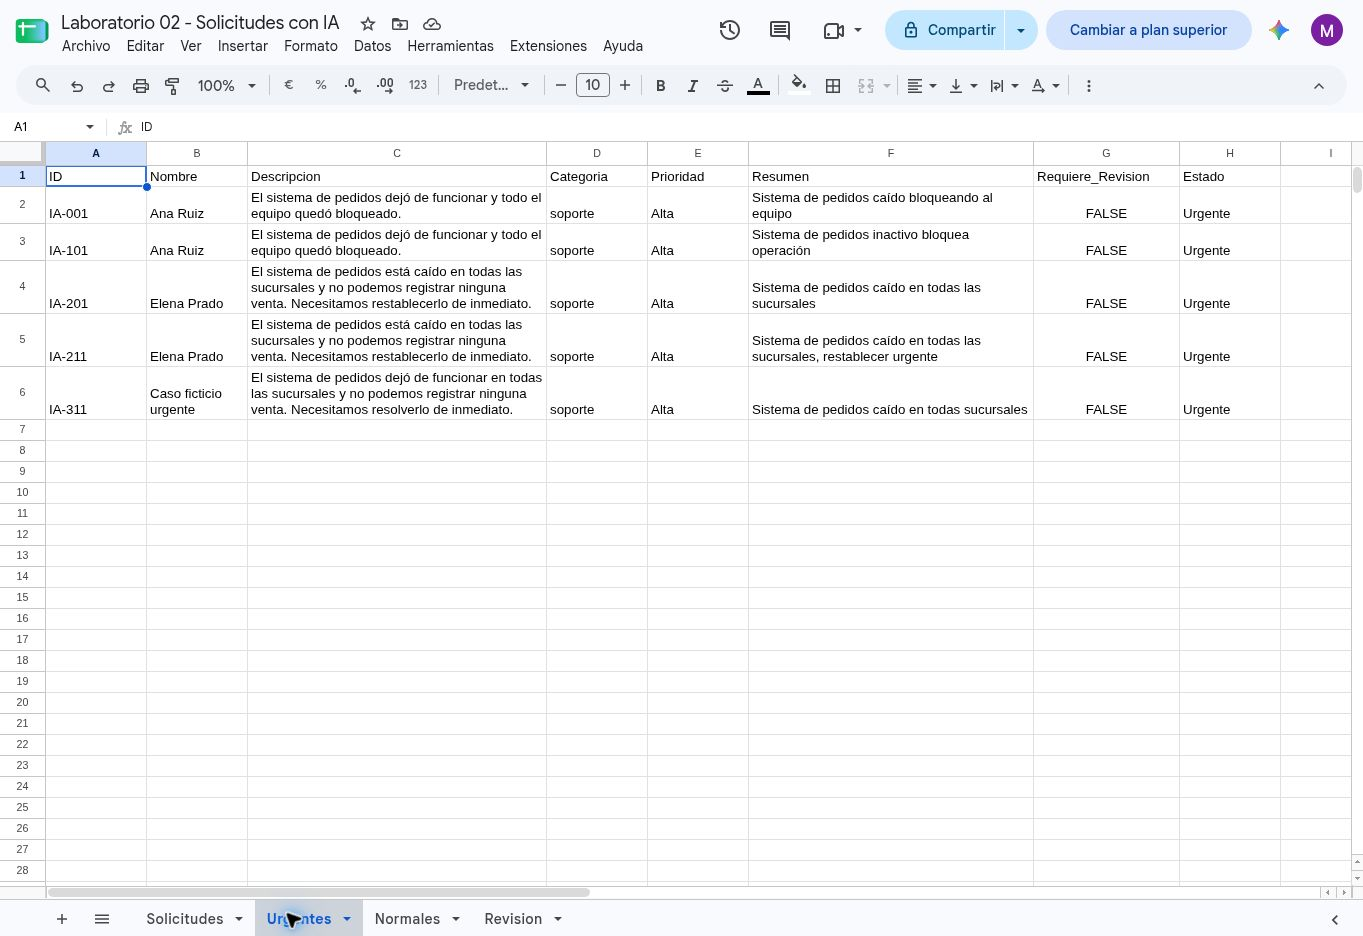
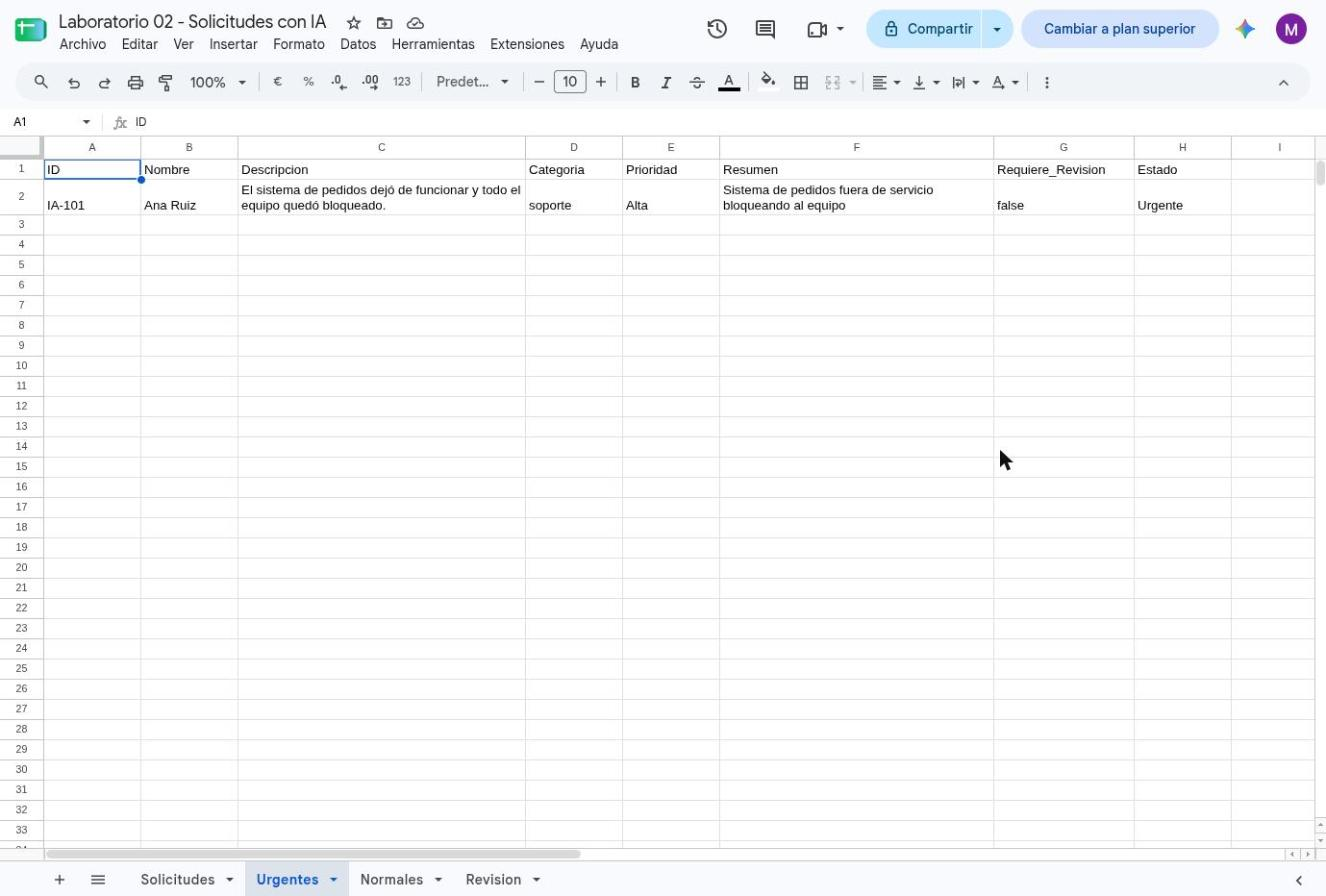
docs(skillnest): retoma capturas de los laboratorios de Make

diff --git a/contenido/construccion-agentes-ia-automatizacion/04-make-flujos-no-code.md b/contenido/construccion-agentes-ia-automatizacion/04-make-flujos-no-code.md
@@ -61,9 +61,9 @@ En [Make](https://www.make.com/), abre la sección **Scenarios**. Puedes organiz
 
 **Un escenario** es el conjunto completo de módulos conectados: un disparador, una o más decisiones y las acciones que se realizan después.
 
-<div class="lamina-apunte" style="position:relative;display:block;width:100%;max-width:760px;margin:18px auto 10px;line-height:0"><img src="contenido/construccion-agentes-ia-automatizacion/imagenes/make-laboratorio/make-03.webp" alt="Menú de Make con la opción Scenarios en la barra lateral." style="display:block;width:100%;height:auto;border:1px solid var(--color-divider);border-radius:12px;background:#fff" loading="lazy"><a href="contenido/construccion-agentes-ia-automatizacion/imagenes/make-laboratorio/make-03.webp" target="_blank" rel="noopener noreferrer" title="Ampliar captura" aria-label="Ampliar lámina en una pestaña nueva" style="position:absolute;top:10px;right:10px;display:inline-flex;align-items:center;justify-content:center;width:32px;height:32px;border:1px solid #c9d3df;border-radius:8px;background:#fff;color:#244264;text-decoration:none;line-height:1"><svg width="17" height="17" viewBox="0 0 24 24" fill="none" stroke="currentColor" stroke-width="1.8" stroke-linecap="round" stroke-linejoin="round" aria-hidden="true"><path d="M15 3h6v6M21 3l-8 8M9 21H3v-6M3 21l8-8"/></svg></a></div>
+<div class="lamina-apunte" style="position:relative;display:block;width:100%;max-width:760px;margin:18px auto 10px;line-height:0"><img src="contenido/construccion-agentes-ia-automatizacion/imagenes/make-laboratorio/make-03.webp" alt="Sección Scenarios de Make con el botón Create scenario resaltado." style="display:block;width:100%;height:auto;border:1px solid var(--color-divider);border-radius:12px;background:#fff" loading="lazy"><a href="contenido/construccion-agentes-ia-automatizacion/imagenes/make-laboratorio/make-03.webp" target="_blank" rel="noopener noreferrer" title="Ampliar captura" aria-label="Ampliar lámina en una pestaña nueva" style="position:absolute;top:10px;right:10px;display:inline-flex;align-items:center;justify-content:center;width:32px;height:32px;border:1px solid #c9d3df;border-radius:8px;background:#fff;color:#244264;text-decoration:none;line-height:1"><svg width="17" height="17" viewBox="0 0 24 24" fill="none" stroke="currentColor" stroke-width="1.8" stroke-linecap="round" stroke-linejoin="round" aria-hidden="true"><path d="M15 3h6v6M21 3l-8 8M9 21H3v-6M3 21l8-8"/></svg></a></div>
 
-*Captura 03. Ubica la sección Scenarios.*
+*Captura 03. En Scenarios, el botón Create scenario está arriba a la derecha.*
 
 <div class="lamina-apunte" style="position:relative;display:block;width:100%;max-width:760px;margin:18px auto 10px;line-height:0"><img src="contenido/construccion-agentes-ia-automatizacion/imagenes/make-laboratorio/make-04.webp" alt="Editor de Make mostrando el lienzo vacío y el botón central para agregar el primer módulo." style="display:block;width:100%;height:auto;border:1px solid var(--color-divider);border-radius:12px;background:#fff" loading="lazy"><a href="contenido/construccion-agentes-ia-automatizacion/imagenes/make-laboratorio/make-04.webp" target="_blank" rel="noopener noreferrer" title="Ampliar captura" aria-label="Ampliar lámina en una pestaña nueva" style="position:absolute;top:10px;right:10px;display:inline-flex;align-items:center;justify-content:center;width:32px;height:32px;border:1px solid #c9d3df;border-radius:8px;background:#fff;color:#244264;text-decoration:none;line-height:1"><svg width="17" height="17" viewBox="0 0 24 24" fill="none" stroke="currentColor" stroke-width="1.8" stroke-linecap="round" stroke-linejoin="round" aria-hidden="true"><path d="M15 3h6v6M21 3l-8 8M9 21H3v-6M3 21l8-8"/></svg></a></div>
 
@@ -108,17 +108,17 @@ Ejecuta una prueba con la fila `SOL-000`. Abre el resultado del módulo: verás 
 
 ## 5. Divide el trabajo con un Router
 
-Ahora queremos dos destinos: las solicitudes **Alta** irán a `Urgentes` y las **Normal** a `Normales`. En el lienzo, pulsa el **+** que aparece a la salida de **Watch New Rows**. En el selector que aparece, busca **Flow Control** (en la lista) o escribe **Router** en el buscador. A continuación selecciona el módulo **Router**. La siguiente captura confirma cómo debe verse una vez insertado. El Router debe quedar conectado al disparador, no suelto en el lienzo.
+Ahora queremos dos destinos: las solicitudes **Alta** irán a `Urgentes` y las **Normal** a `Normales`. En el lienzo, pulsa el **+** que aparece a la salida de **Watch New Rows**. En el selector que aparece, busca **Flow Control** (en la lista) o escribe **Router** en el buscador. A continuación selecciona el módulo **Router**. El Router debe quedar conectado al disparador, no suelto en el lienzo.
 
 El Router **no es un interruptor que elige una sola salida por definición**: cada ruta tiene su propio filtro y, si se cumplen varios, pueden ejecutarse varias. En nuestro ejemplo usamos valores excluyentes para que cada solicitud coincida solo con una.
 
 <div class="lamina-apunte" style="position:relative;display:block;width:100%;max-width:760px;margin:18px auto 10px;line-height:0"><img src="contenido/construccion-agentes-ia-automatizacion/imagenes/make-laboratorio/make-09.webp" alt="Selector general de aplicaciones de Make: se ve la opción Flow Control; el módulo Router todavía no está seleccionado." style="display:block;width:100%;height:auto;border:1px solid var(--color-divider);border-radius:12px;background:#fff" loading="lazy"><a href="contenido/construccion-agentes-ia-automatizacion/imagenes/make-laboratorio/make-09.webp" target="_blank" rel="noopener noreferrer" title="Ampliar captura" aria-label="Ampliar lámina en una pestaña nueva" style="position:absolute;top:10px;right:10px;display:inline-flex;align-items:center;justify-content:center;width:32px;height:32px;border:1px solid #c9d3df;border-radius:8px;background:#fff;color:#244264;text-decoration:none;line-height:1"><svg width="17" height="17" viewBox="0 0 24 24" fill="none" stroke="currentColor" stroke-width="1.8" stroke-linecap="round" stroke-linejoin="round" aria-hidden="true"><path d="M15 3h6v6M21 3l-8 8M9 21H3v-6M3 21l8-8"/></svg></a></div>
 
-*Captura 09. Pantalla previa a la selección: vemos el listado general de aplicaciones, **no el módulo Router**. No confundas el recuadro violeta de «All apps» con la selección del Router. La **captura 10** confirma el resultado correcto.*
+*Captura 09. En el selector de módulos, **Flow Control** es el grupo que contiene el Router. La **captura 10** muestra el resultado una vez insertado.*
 
 <div class="lamina-apunte" style="position:relative;display:block;width:100%;max-width:760px;margin:18px auto 10px;line-height:0"><img src="contenido/construccion-agentes-ia-automatizacion/imagenes/make-laboratorio/make-10.webp" alt="Escenario visual con Google Sheets Watch New Rows, Router y dos salidas." style="display:block;width:100%;height:auto;border:1px solid var(--color-divider);border-radius:12px;background:#fff" loading="lazy"><a href="contenido/construccion-agentes-ia-automatizacion/imagenes/make-laboratorio/make-10.webp" target="_blank" rel="noopener noreferrer" title="Ampliar captura" aria-label="Ampliar lámina en una pestaña nueva" style="position:absolute;top:10px;right:10px;display:inline-flex;align-items:center;justify-content:center;width:32px;height:32px;border:1px solid #c9d3df;border-radius:8px;background:#fff;color:#244264;text-decoration:none;line-height:1"><svg width="17" height="17" viewBox="0 0 24 24" fill="none" stroke="currentColor" stroke-width="1.8" stroke-linecap="round" stroke-linejoin="round" aria-hidden="true"><path d="M15 3h6v6M21 3l-8 8M9 21H3v-6M3 21l8-8"/></svg></a></div>
 
-*Captura 10. Ahora sí aparece el **Router conectado** a Watch New Rows, con dos salidas. Los botones **+** grises indican que todavía falta agregar una acción en cada rama.*
+*Captura 10. El **Router** queda conectado a Watch New Rows, con dos salidas. Los botones **+** grises indican que todavía falta agregar una acción en cada rama.*
 
 ### Configura el primer filtro: Alta prioridad
 

diff --git a/contenido/construccion-agentes-ia-automatizacion/05-make-gemini-parse-json.md b/contenido/construccion-agentes-ia-automatizacion/05-make-gemini-parse-json.md
@@ -88,7 +88,7 @@ Devuelve exclusivamente un objeto JSON válido, con exactamente estas claves: {"
 
 ### ¿Qué se coloca en User Message?
 
-En **User Message**, selecciona directamente la **píldora verde de Descripción** del módulo **Google Sheets → Watch New Rows**. En este escenario Make identifica las columnas de origen como **0 (ID), 1 (Nombre) y 2 (Descripción)**: selecciona la píldora **2**, sin escribir códigos manualmente. Cada fila enviará su propia descripción a Groq. **No escribas un ejemplo fijo** en User Message. En el laboratorio, **Max tokens returned** quedó sin valor manual.
+En **User Message**, selecciona directamente la **píldora verde de Descripción** del módulo **Google Sheets → Watch New Rows**. Make la muestra como **`2. Descripcion (C)`**: el 2 es el número del módulo y la letra indica la columna. Selecciónala con clic, sin escribir códigos manualmente. Cada fila enviará su propia descripción a Groq. **No escribas un ejemplo fijo** en User Message. En el laboratorio, **Max tokens returned** quedó sin valor manual.
 
 **Para verificarlo:** el System Prompt define las reglas permanentes, mientras que User Message recibe el texto variable de la solicitud. La respuesta debe contener exactamente `categoria`, `prioridad`, `resumen` y `requiere_revision`; `prioridad` admite `"Alta"`, `"Normal"` o `null`, y `requiere_revision` debe ser un booleano real (`true` o `false`, no texto).
 
@@ -148,9 +148,9 @@ El mapeo es **igual en las tres rutas**. Puedes usar las píldoras visuales de l
 
 | Campo en la hoja de destino | Selecciona en Make |
 |---|---|
-| ID (A) | Píldora **ID** de **Watch New Rows** (en las capturas, `2. 0`) |
-| Nombre (B) | Píldora **Nombre** de **Watch New Rows** (en las capturas, `2. 1`) |
-| Descripcion (C) | Píldora **Descripción** de **Watch New Rows** (en las capturas, `2. 2`) |
+| ID (A) | Píldora **ID** de **Watch New Rows** |
+| Nombre (B) | Píldora **Nombre** de **Watch New Rows** |
+| Descripcion (C) | Píldora **Descripción** de **Watch New Rows** |
 | Categoria (D) | Píldora **Categoría** de **Parse JSON** |
 | Prioridad (E) | Píldora **Prioridad** de **Parse JSON** |
 | Resumen (F) | Píldora **Resumen** de **Parse JSON** |
@@ -196,7 +196,7 @@ Para verificar una automatización no basta con que Make muestre la ruta correct
 
 ### Verifica las píldoras y los datos
 
-Cuando abras el inspector de **Parse JSON**, comprueba que `categoria`, `prioridad`, `resumen` y `requiere_revision` aparecen como campos separados. Cada solicitud producirá valores diferentes, aunque la estructura de la pantalla sea similar. Por ejemplo, la siguiente captura corresponde a la solicitud IA-311:
+Cuando abras el inspector de **Parse JSON**, comprueba que `categoria`, `prioridad`, `resumen` y `requiere_revision` aparecen como campos separados. Cada solicitud producirá valores diferentes, aunque la estructura de la pantalla sea similar. Por ejemplo, la siguiente captura corresponde a la solicitud IA-101:
 
 <figure class="lamina-apunte" style="max-width:760px;margin:16px auto 24px"><a href="contenido/construccion-agentes-ia-automatizacion/imagenes/groq-laboratorio/l02-make-24-parse-json-ejecucion.jpg" target="_blank" rel="noopener noreferrer"><img loading="lazy" style="display:block;width:100%;height:auto;object-fit:contain;border:1px solid #d4d4db;border-radius:12px" src="contenido/construccion-agentes-ia-automatizacion/imagenes/groq-laboratorio/l02-make-24-parse-json-ejecucion.jpg" alt="Inspector de ejecución de Parse JSON y sus campos de salida."></a><figcaption style="font-size:.92em;color:var(--color-text-secondary,#666);margin-top:8px">Inspector de ejecución de Parse JSON y sus campos de salida. <em>(Pulsa para ampliar)</em>.</figcaption></figure>
 
@@ -214,7 +214,7 @@ Cuando abras el inspector de **Parse JSON**, comprueba que `categoria`, `priorid
 
 <figure class="lamina-apunte" style="max-width:760px;margin:16px auto 24px"><a href="contenido/construccion-agentes-ia-automatizacion/imagenes/groq-laboratorio/l02-sheets-22-resultados-revision.jpg" target="_blank" rel="noopener noreferrer"><img loading="lazy" style="display:block;width:100%;height:auto;object-fit:contain;border:1px solid #d4d4db;border-radius:12px" src="contenido/construccion-agentes-ia-automatizacion/imagenes/groq-laboratorio/l02-sheets-22-resultados-revision.jpg" alt="Resultados de Revision, incluidos casos con prioridad indeterminada."></a><figcaption style="font-size:.92em;color:var(--color-text-secondary,#666);margin-top:8px">Resultados de Revision, incluidos casos con prioridad indeterminada. <em>(Pulsa para ampliar)</em>.</figcaption></figure>
 
-Las capturas de resultados muestran **registros de varias pruebas**, no solo los cuatro casos iniciales. Evita volver a ejecutar sobre filas ya procesadas para no producir duplicados.
+Evita volver a ejecutar sobre filas ya procesadas para no producir duplicados.
 
 ### Una ejecución sin filas nuevas
 
